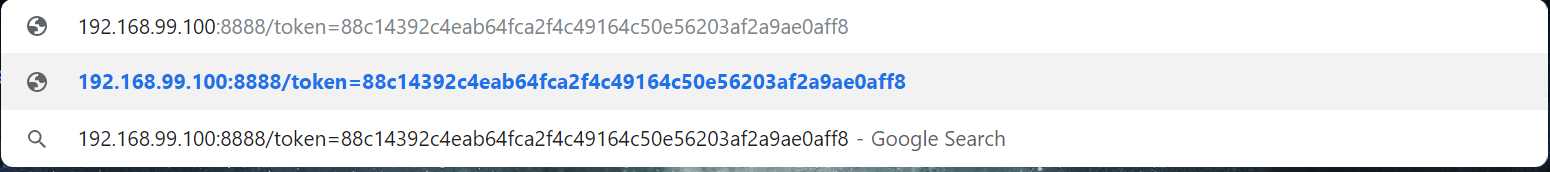
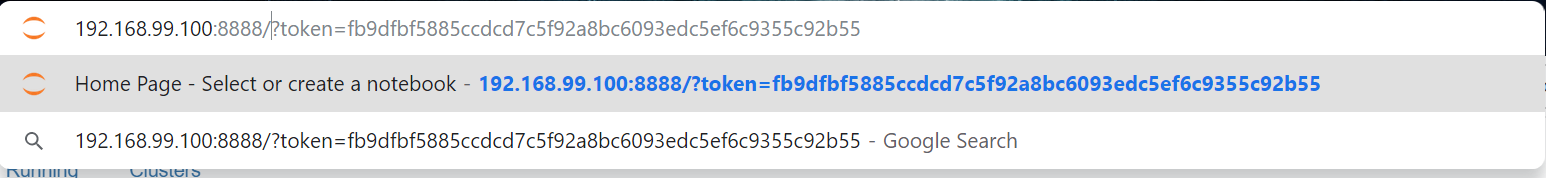
Update files

diff --git a/README.md b/README.md
@@ -2,20 +2,24 @@
 * Download this Repository
 * Activate Docker
 * Build the image: `docker build -it image-name:version .`
-* Run the image: `docker run -it -ip 8888:7777 image-name:version`
-* Open the browser: `ip-address:8888\token-id`
+* Run the image: `docker run -it -p 8888:8888 image-name:version`
+* Open the browser: `ip-address:8888\?token=token-id`
 
 ________________________
 
 * Build:
+
 ![build-cmd](files/1-build.png)
 
 * Run:
+
 ![run-cmd](files/2-run.png)
 
 * Access:
+
 ![access-nb](files/3-browser.png)
 
 * Notebook in action:
 Following this [simple tutorial](https://nbviewer.jupyter.org/github/jrjohansson/scientific-python-lectures/blob/master/Lecture-4-Matplotlib.ipynb).
+
 ![nb-run](files/4-nb.png)
